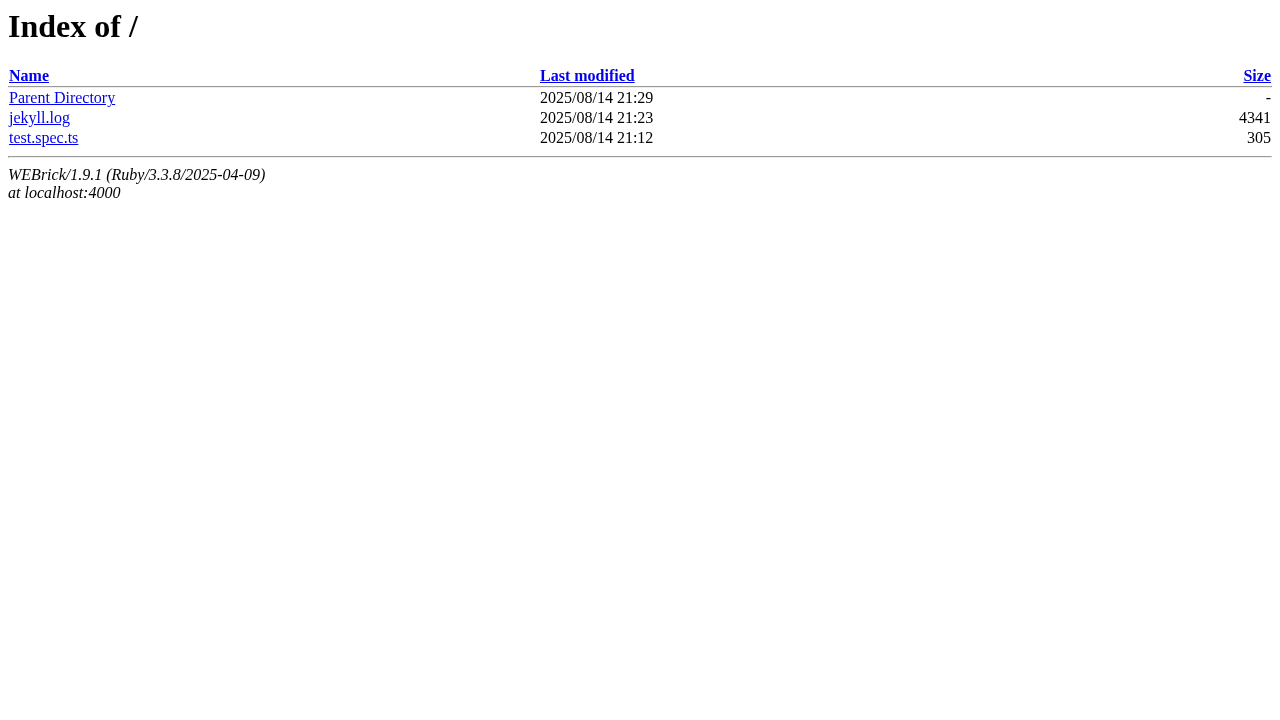
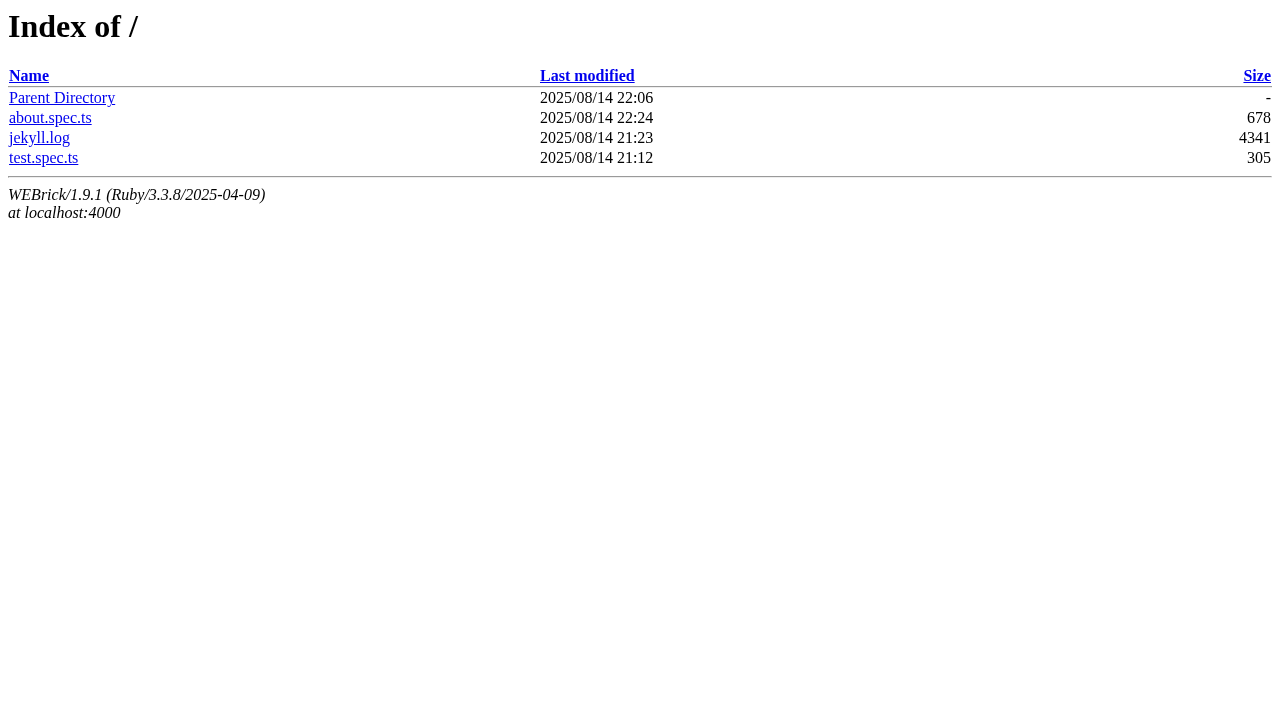
updated tests

diff --git a/tests/about.spec.ts b/tests/about.spec.ts
@@ -1,0 +1,14 @@
+import { test, expect } from "@playwright/test";
+
+test("About page contains resume content", async ({ page }) => {
+  // Navigate to the About page
+  await page.goto("https://seanclosson.github.io/about"); // Adjust if hosted elsewhere
+
+  // Check for a resume section header
+  await expect(page.locator("body")).toContainText(/director/i);
+
+  // Optionally, check for key resume keywords in the page
+  await expect(page.locator("body")).toContainText(
+    /experience|skills|education/i,
+  );
+});

diff --git a/playwright.config.ts b/playwright.config.ts
@@ -2,5 +2,18 @@ import { defineConfig } from "@playwright/test";
 
 export default defineConfig({
   testDir: "./tests", // or './e2e' or wherever your tests live
-  // other config...
+  projects: [
+    {
+      name: "local",
+      use: {
+        baseURL: "http://localhost:4000",
+      },
+    },
+    {
+      name: "deployed",
+      use: {
+        baseURL: "https://seanclosson.github.io",
+      },
+    },
+  ],
 });
